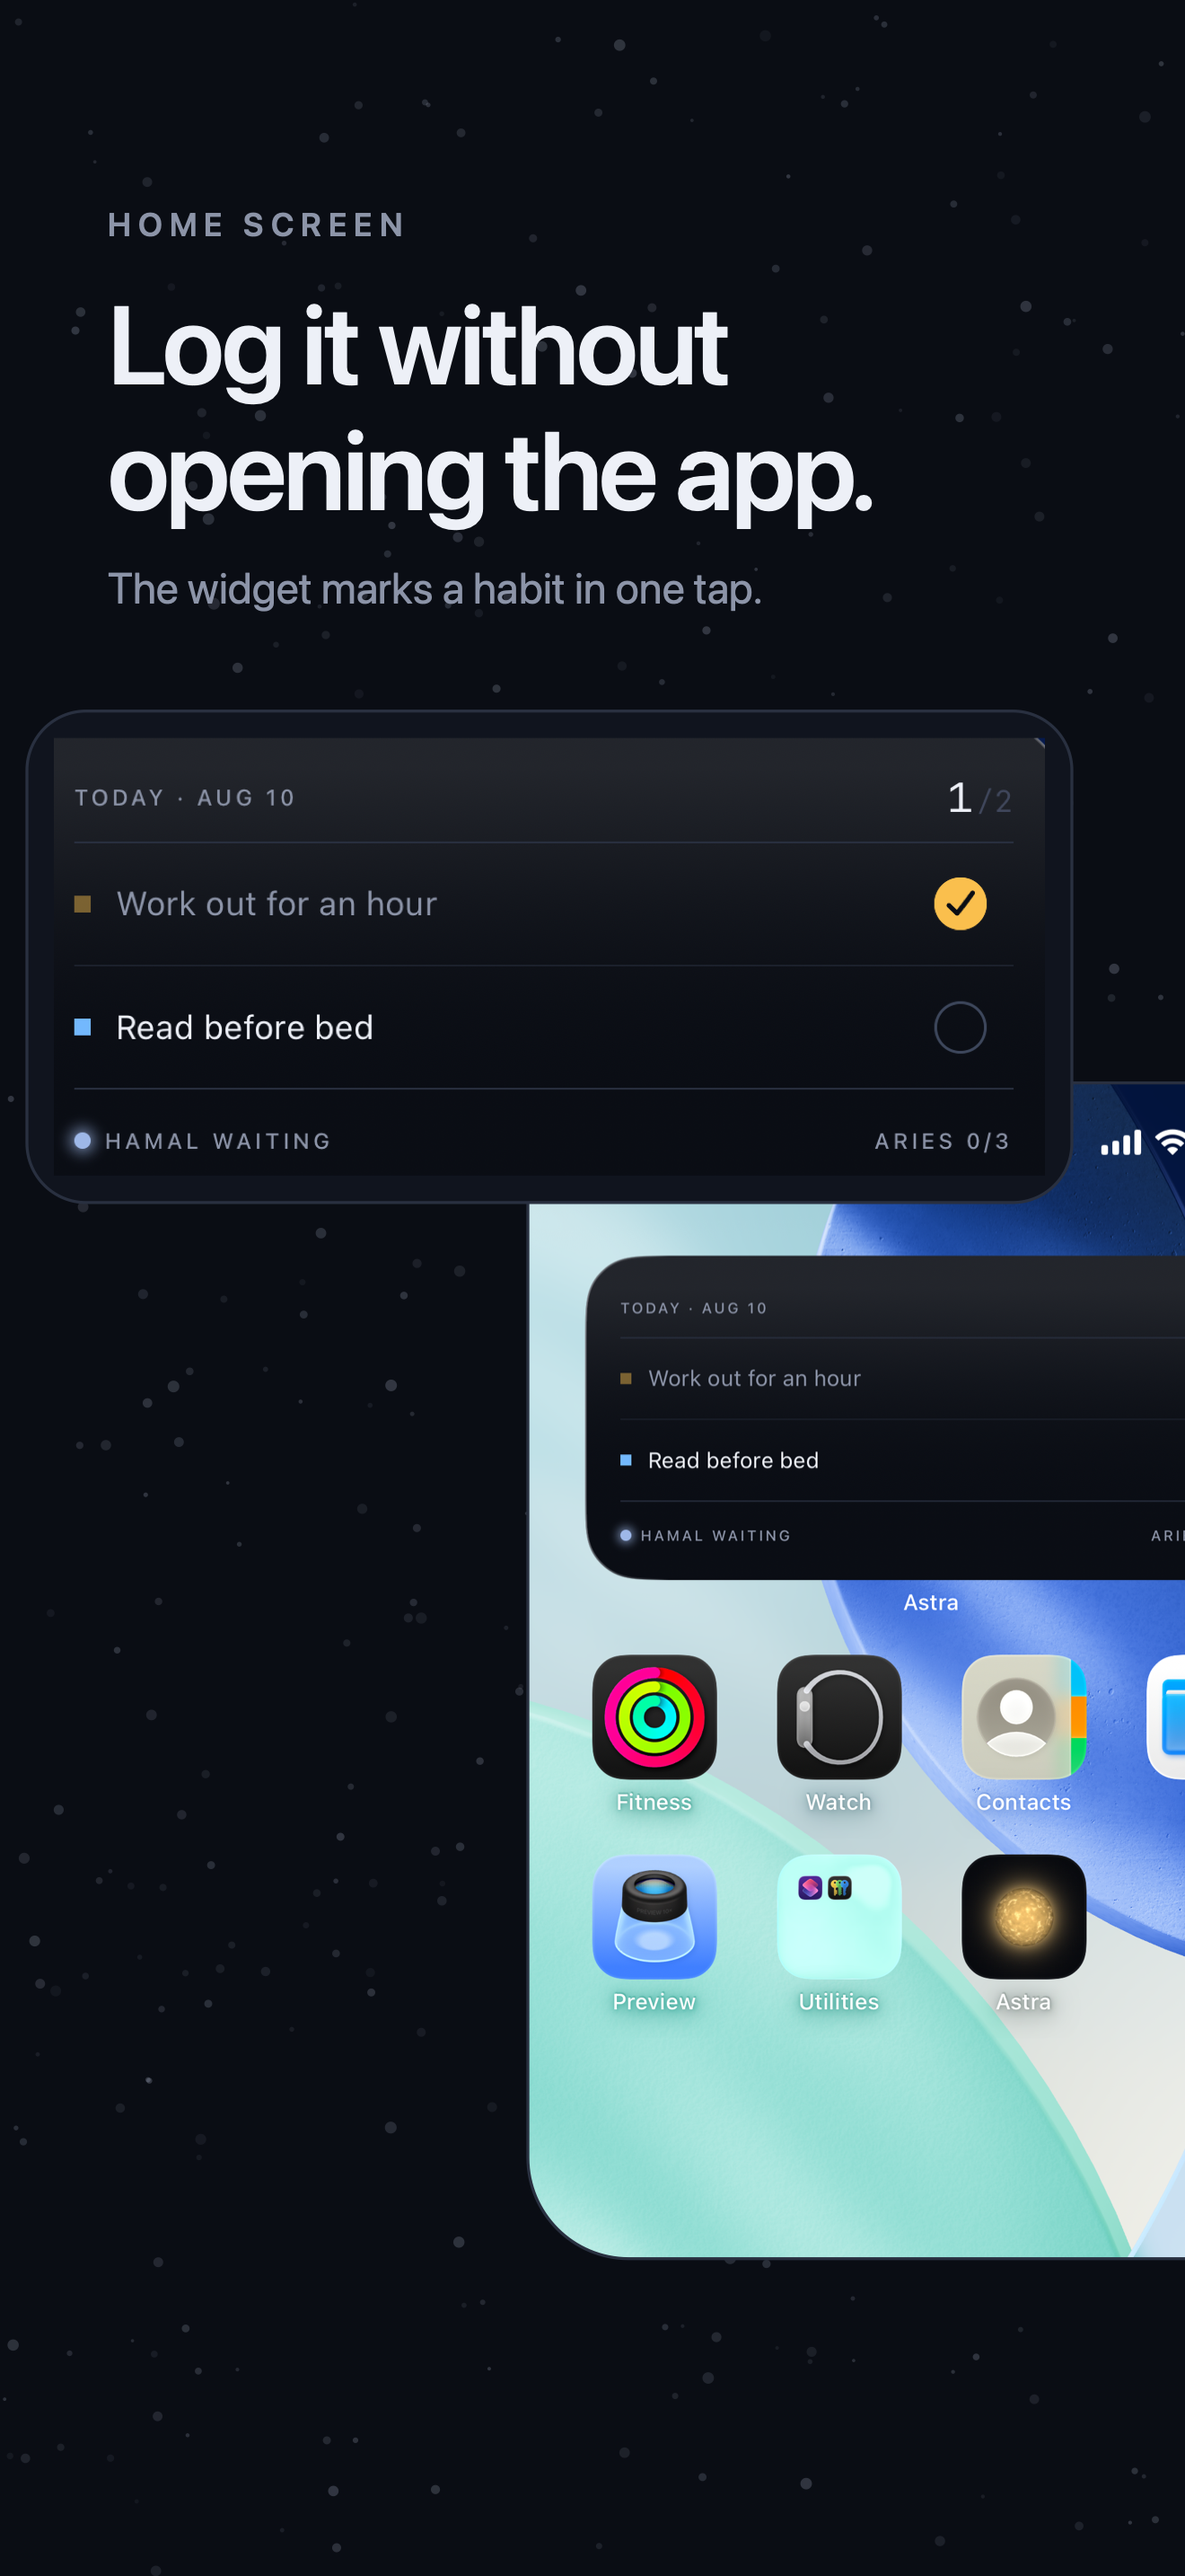
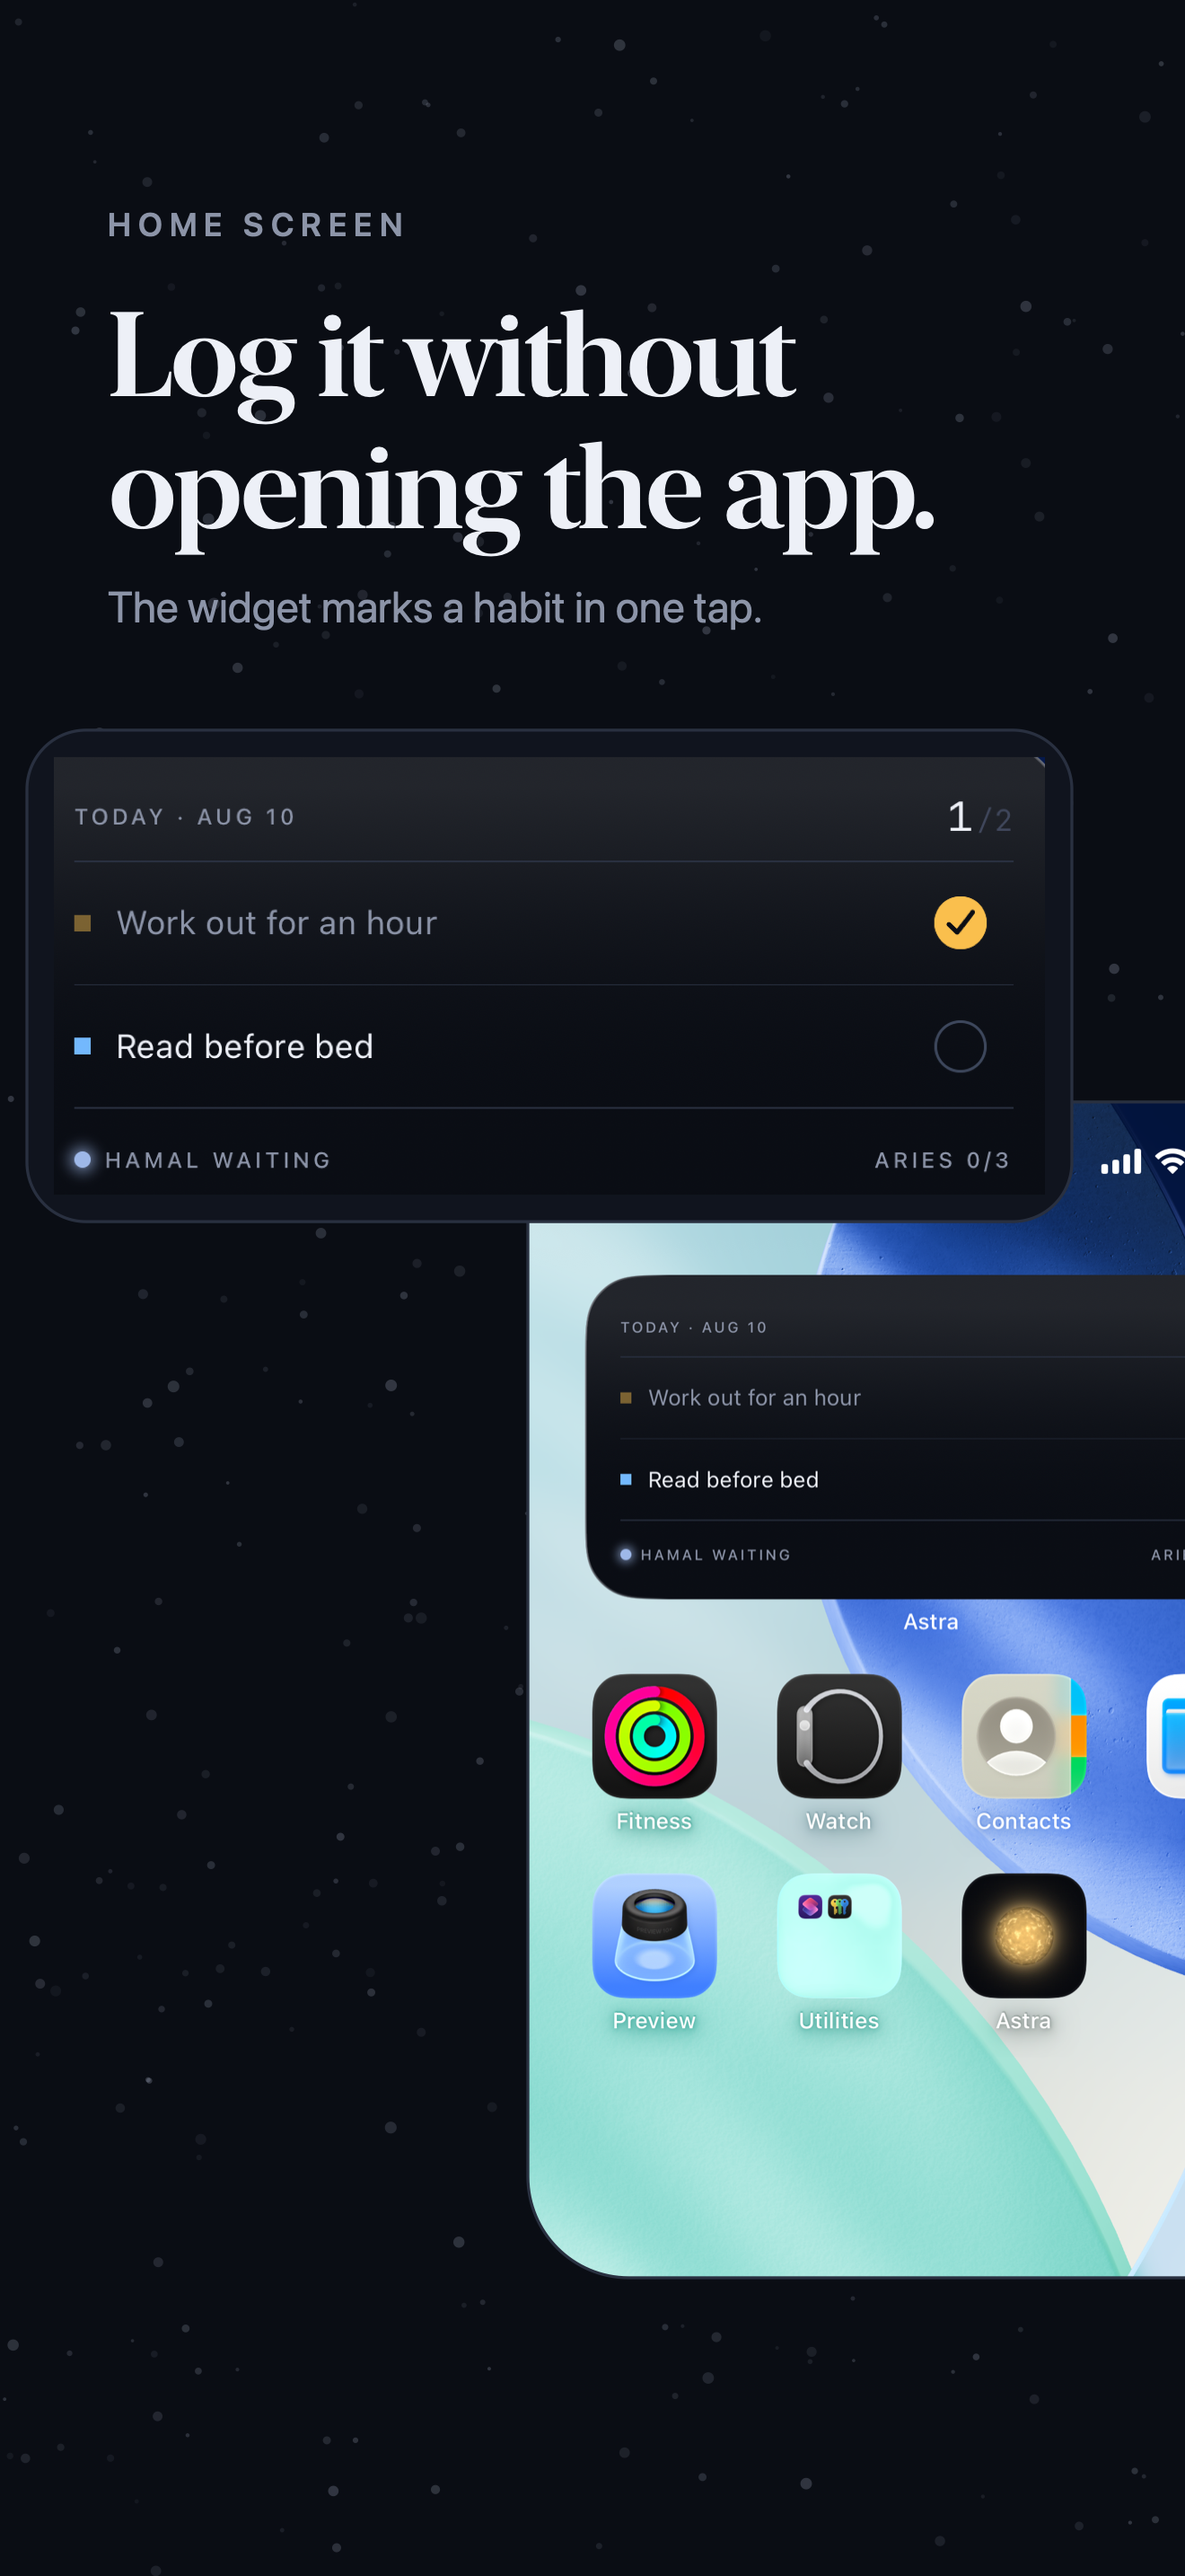
Set the screenshot headlines in New York, and cut the reveal on panel two
The headlines were the plain system sans, which read as a default rather
than as a decision. New York is Apple's serif and ships with the system,
so nothing is licensed or bundled. It is also the face this app's
interface already implies: hairline rules, margin labels, figures set in
a monospace, all of it borrowed from printed star atlases. A serif
display over a sans label and a sans supporting line gives the panels a
hierarchy instead of one font at three weights.

Headline sizes are now fitted rather than hand-tuned. The longest line is
measured and the size steps down until it fits the column, so a caption
can be rewritten later without quietly running off the canvas.

Panel two said "Sixty days ago, this sky was empty", which set up a
reveal the panel then had to pay off, and reads as written to be
quotable. The numbers already on screen make the point better and can be
checked against the captures: one star on day one, thirty-eight by sixty,
thirteen constellations in between. The label says "the same install",
which is the part that makes it worth believing.

Tools/compare_type.swift renders the four candidates side by side at
shipping size, for the next time this question comes up.

diff --git a/Tools/compare_type.swift b/Tools/compare_type.swift
@@ -1,0 +1,115 @@
+// Four ways to set the same headline, at the size it ships at.
+//
+//   swift TypeCompare.swift <out.png>
+
+import AppKit
+import CoreGraphics
+import CoreText
+import Foundation
+
+let scale: Double = 3
+let W = Int(440 * scale)
+let blockH = 300.0
+let H = Int((blockH * 4 + 40) * scale)
+
+let deviceRGB = CGColorSpaceCreateDeviceRGB()
+func colour(_ r: Int, _ g: Int, _ b: Int, _ a: Double = 1) -> CGColor {
+    CGColor(colorSpace: deviceRGB,
+            components: [Double(r) / 255, Double(g) / 255, Double(b) / 255, a])!
+}
+let starlight = NSColor(srgbRed: 0.93, green: 0.94, blue: 0.97, alpha: 1)
+let subdued = NSColor(srgbRed: 0.55, green: 0.58, blue: 0.66, alpha: 1)
+let accent = NSColor(srgbRed: 0.79, green: 0.57, blue: 0.18, alpha: 1)
+
+struct Option {
+    let name: String
+    let font: (Double, NSFont.Weight) -> NSFont
+    let size: Double
+    let kern: Double
+    let leading: Double
+}
+
+/// A system font with a design applied, falling back if the design is missing.
+func designed(_ size: Double, _ weight: NSFont.Weight, _ design: NSFontDescriptor.SystemDesign) -> NSFont {
+    let base = NSFont.systemFont(ofSize: size, weight: weight)
+    guard let descriptor = base.fontDescriptor.withDesign(design) else { return base }
+    return NSFont(descriptor: descriptor, size: size) ?? base
+}
+
+/// Narrowed by the width trait rather than by a separate family, which is how
+/// SF exposes its compressed cuts.
+func narrowed(_ size: Double, _ weight: NSFont.Weight, _ width: Double) -> NSFont {
+    let base = NSFont.systemFont(ofSize: size, weight: weight)
+    let descriptor = base.fontDescriptor.addingAttributes([
+        .traits: [NSFontDescriptor.TraitKey.width: width]
+    ])
+    return NSFont(descriptor: descriptor, size: size) ?? base
+}
+
+let options: [Option] = [
+    Option(name: "A  SF Pro semibold (current)",
+           font: { NSFont.systemFont(ofSize: $0, weight: $1) },
+           size: 41, kern: -1.0, leading: 1.14),
+    Option(name: "B  SF Pro Rounded bold",
+           font: { designed($0, $1, .rounded) },
+           size: 41, kern: -0.8, leading: 1.14),
+    Option(name: "C  New York, Apple's serif",
+           font: { designed($0, $1, .serif) },
+           size: 42, kern: -0.6, leading: 1.12),
+    Option(name: "D  SF Pro compressed black",
+           font: { narrowed($0, $1, -0.35) },
+           size: 52, kern: -0.6, leading: 1.02),
+]
+
+guard let context = CGContext(
+    data: nil, width: W, height: H, bitsPerComponent: 8, bytesPerRow: W * 4,
+    space: deviceRGB, bitmapInfo: CGImageAlphaInfo.premultipliedLast.rawValue
+) else { exit(1) }
+
+context.setFillColor(colour(10, 13, 20))
+context.fill(CGRect(x: 0, y: 0, width: Double(W), height: Double(H)))
+
+func line(_ text: String, font: NSFont, colour c: NSColor, kern: Double, x: Double, y: Double) {
+    let attributed = NSAttributedString(string: text, attributes: [
+        .font: font, .kern: kern * scale, .foregroundColor: c,
+    ])
+    context.textPosition = CGPoint(x: x * scale,
+                                   y: Double(H) - (y * scale + Double(font.ascender)))
+    CTLineDraw(CTLineCreateWithAttributedString(attributed), context)
+}
+
+var top = 26.0
+for option in options {
+    line(option.name.uppercased(),
+         font: NSFont.systemFont(ofSize: 11 * scale, weight: .semibold),
+         colour: accent, kern: 2.0, x: 40, y: top)
+
+    line("SIXTY DAYS APART",
+         font: NSFont.systemFont(ofSize: 12 * scale, weight: .semibold),
+         colour: subdued, kern: 2.6, x: 40, y: top + 34)
+
+    let head = option.font(option.size * scale, .semibold)
+    let heavy = option.name.hasPrefix("D") ? option.font(option.size * scale, .black) : head
+    line("One star on day one.", font: heavy, colour: starlight,
+         kern: option.kern, x: 40, y: top + 62)
+    line("Thirty-eight by day sixty.", font: heavy, colour: starlight,
+         kern: option.kern, x: 40, y: top + 62 + option.size * option.leading)
+
+    line("Thirteen constellations finished on the way.",
+         font: NSFont.systemFont(ofSize: 16 * scale, weight: .regular),
+         colour: subdued, kern: 0, x: 40, y: top + 62 + option.size * option.leading * 2 + 14)
+
+    context.setFillColor(colour(30, 36, 48))
+    context.fill(CGRect(x: 40 * scale, y: Double(H) - (top + blockH - 26) * scale,
+                        width: Double(W) - 80 * scale, height: 1 * scale))
+    top += blockH
+}
+
+guard let image = context.makeImage() else { exit(1) }
+let url = URL(fileURLWithPath: CommandLine.arguments[1])
+guard let destination = CGImageDestinationCreateWithURL(
+    url as CFURL, "public.png" as CFString, 1, nil
+) else { exit(1) }
+CGImageDestinationAddImage(destination, image, nil)
+CGImageDestinationFinalize(destination)
+print(url.path)

diff --git a/Tools/make_screenshots.swift b/Tools/make_screenshots.swift
@@ -96,13 +96,46 @@ func drawField(in context: CGContext) {
 
 // MARK: - Type
 
+/// New York, which ships with the system.
+///
+/// The headlines were set in the plain system sans and read as a default rather
+/// than as a decision. Astra's whole interface is a printed star atlas: hairline
+/// rules, margin labels, figures set in a monospace. A serif display over a sans
+/// label is the pairing that grammar already implies.
+func display(_ size: Double, _ weight: NSFont.Weight = .semibold) -> NSFont {
+    let base = NSFont.systemFont(ofSize: size, weight: weight)
+    guard let descriptor = base.fontDescriptor.withDesign(.serif) else { return base }
+    return NSFont(descriptor: descriptor, size: size) ?? base
+}
+
+/// The largest size at or below `size` whose longest line still fits the column.
+///
+/// Cheaper than hand-tuning every headline, and it means a caption can be
+/// rewritten later without quietly running off the edge of the canvas.
+func fitted(_ text: String, _ size: Double, kern: Double, width: Double) -> Double {
+    var trial = size
+    while trial > 20 {
+        let font = display(trial * scale)
+        let widest = text.split(separator: "\n").map { line -> Double in
+            let attributed = NSAttributedString(string: String(line),
+                                                attributes: [.font: font, .kern: kern * scale])
+            return CTLineGetTypographicBounds(
+                CTLineCreateWithAttributedString(attributed), nil, nil, nil)
+        }.max() ?? 0
+        if widest <= width * scale { return trial }
+        trial -= 0.5
+    }
+    return trial
+}
+
 @discardableResult
 func draw(
     _ text: String, in context: CGContext, top: Double,
     size: Double, weight: NSFont.Weight, colour textColour: NSColor,
-    kern: Double = 0, leading: Double = 1.22, x: Double = margin
+    kern: Double = 0, leading: Double = 1.22, x: Double = margin, serif: Bool = false
 ) -> Double {
-    let font = NSFont.systemFont(ofSize: size * scale, weight: weight)
+    let font = serif ? display(size * scale, weight)
+                     : NSFont.systemFont(ofSize: size * scale, weight: weight)
     var y = top
     for line in text.split(separator: "\n", omittingEmptySubsequences: false) {
         let attributed = NSAttributedString(string: String(line), attributes: [
@@ -230,8 +263,9 @@ func panel(_ name: String, _ body: (CGContext) -> Void) {
 func heading(_ context: CGContext, _ label: String, _ head: String, _ sub: String) -> Double {
     var y = draw(label.uppercased(), in: context, top: 76, size: 12, weight: .semibold,
                  colour: subdued, kern: 2.6, leading: 1.9)
-    y = draw(head, in: context, top: y + 4, size: 41, weight: .semibold,
-             colour: starlight, kern: -1.0, leading: 1.14)
+    let size = fitted(head, 44, kern: -0.6, width: pointW - margin * 2)
+    y = draw(head, in: context, top: y + 6, size: size, weight: .semibold,
+             colour: starlight, kern: -0.6, leading: 1.12, serif: true)
     y = draw(sub, in: context, top: y + 12, size: 16, weight: .regular,
              colour: subdued, leading: 1.35)
     return y
@@ -268,8 +302,8 @@ panel("01-loop") { context in
 // 2. The reason to keep going, and the only claim here that needs two separate
 //    captures to make honestly.
 panel("02-grows") { context in
-    let y = heading(context, "It grows", "Sixty days ago,\nthis sky was empty.",
-                    "Every day you keep adds one more star.")
+    let y = heading(context, "The same install", "One star on day one.\nThirty-eight by sixty.",
+                    "Thirteen constellations completed in between.")
     drawTag("Day 1", in: context, top: y + 62, x: 18)
     drawScreen(skyDay1, in: context, x: 18, top: y + 92, width: 196)
     drawTag("Day 60", in: context, top: y + 62, x: 228)
